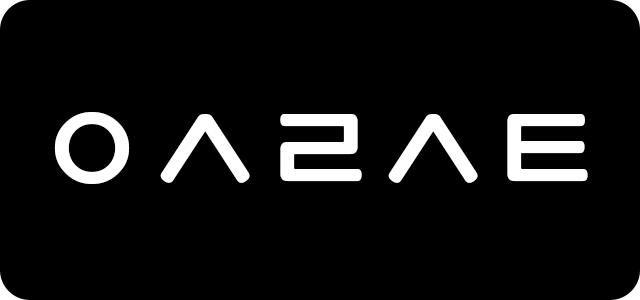
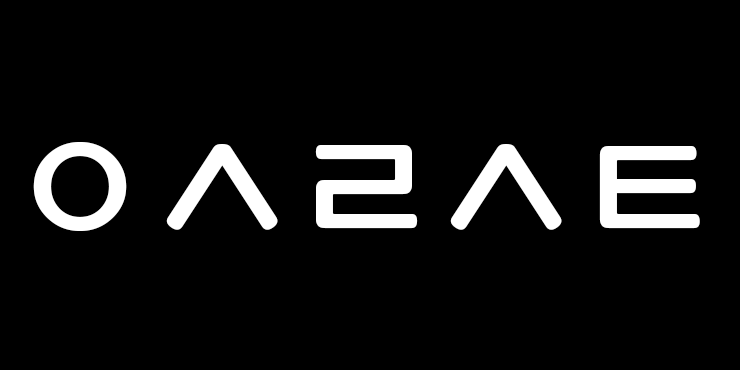
Update README.md and og image

diff --git a/README.md b/README.md
@@ -1,7 +1,10 @@
+
+
+![logo image](static/image/og_image.png)
+
 # ㅇㅅㄹㅅㅌ / Wookslist
 
 > Plan Your Life and Never Be Stuck Again
->
 
 * 뽀짝한 미니멀 디자인 Todo SPA
 
